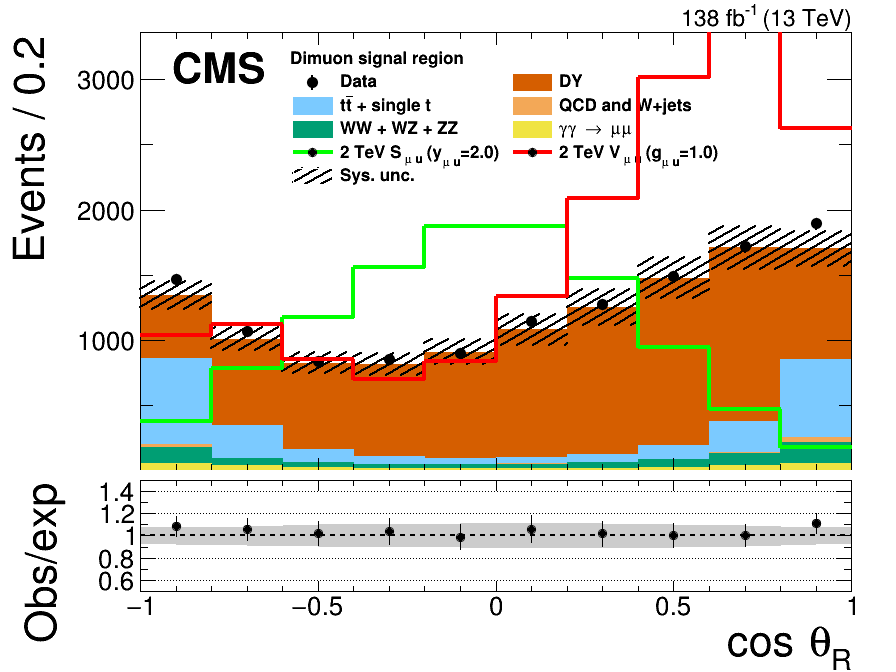
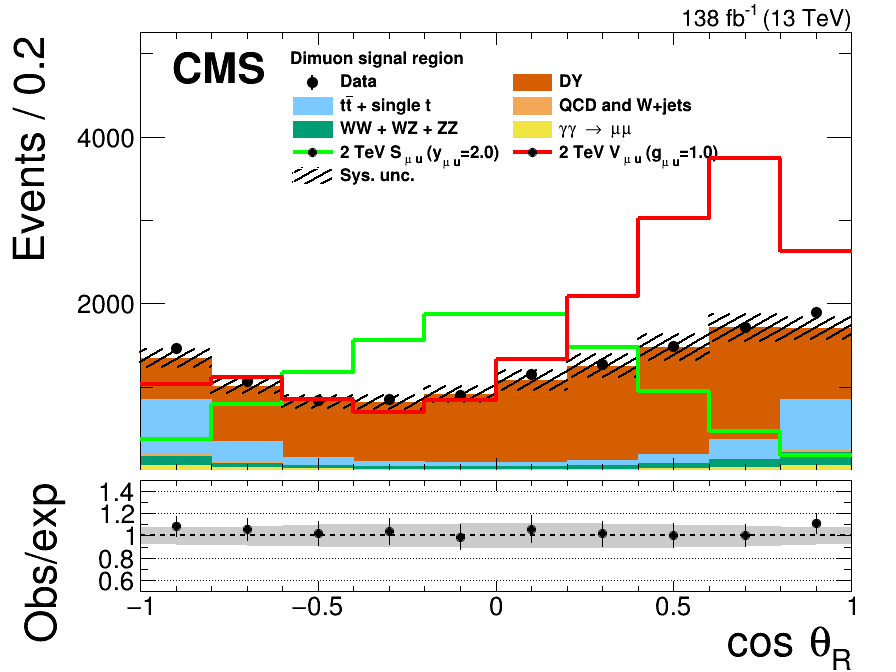
update

diff --git a/plots/MuMu/draw_cmp_from_saved.C b/plots/MuMu/draw_cmp_from_saved.C
@@ -464,7 +464,7 @@ void draw_cmp_from_saved(){
     logy = false;
     int n_cost_bins = 10;
     float cost_bin_size = 2./n_cost_bins;
-    hmax = 3200;
+    hmax = 5000;
 
     // if(year == 2016)
     //     hmax *= 0.25;
